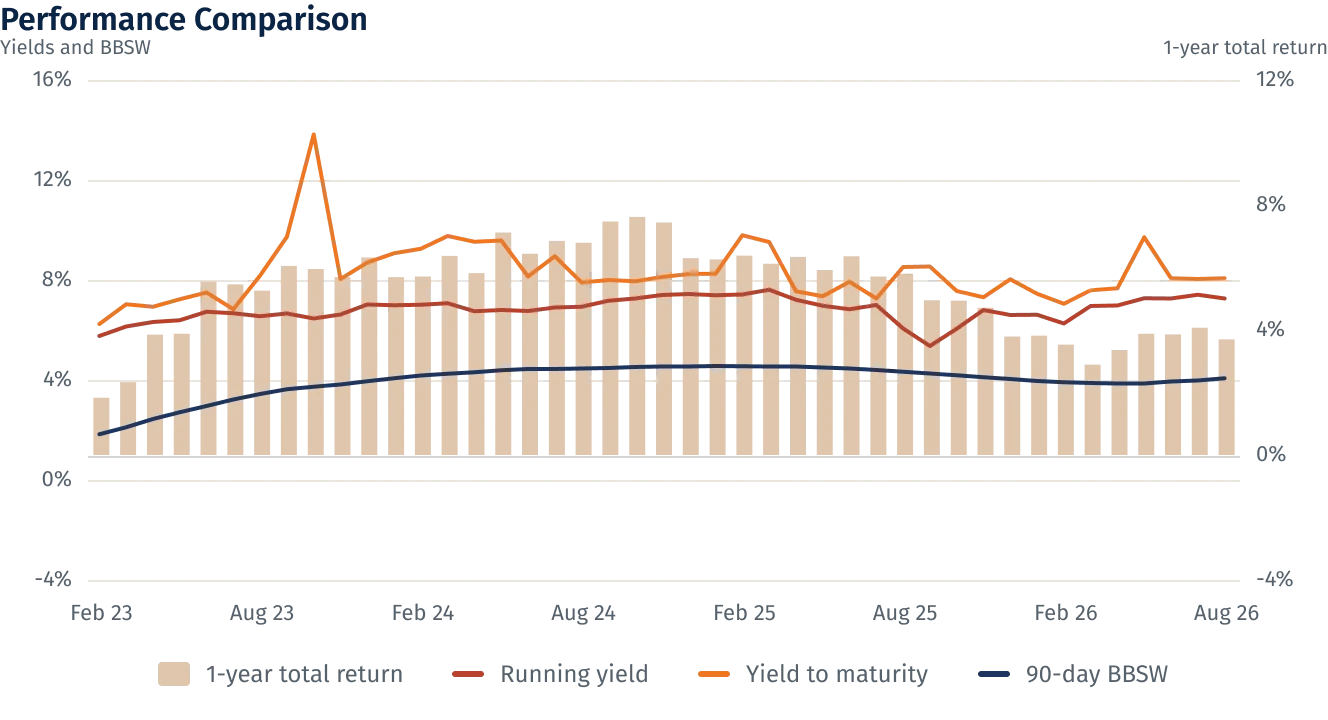
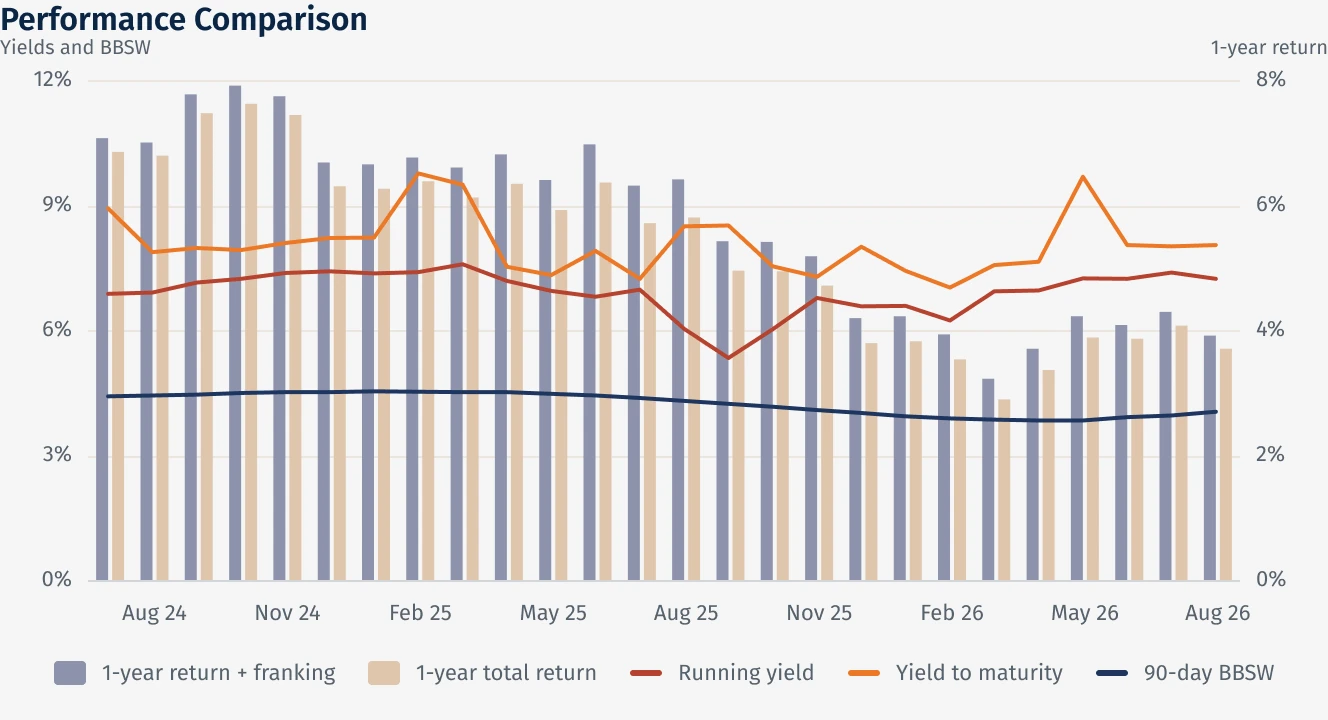
Add files via upload

diff --git a/scripts/figma-chart-build.js b/scripts/figma-chart-build.js
@@ -1,14 +1,16 @@
-// Figma use_figma script: builds a "Performance chart v2" frame from data. Replace D (43 months: bars = workbook
-// column AC as %, RY/YTM/BBSW from Renny's series or the report), set P (fund, label, axes), run through the Figma
+// Figma use_figma script: builds a "Performance chart v2" frame from data. Replace D (months: bars = workbook
+// column AC as %, optional bars2 = column BH (1-year return incl. franking, PIF only), RY/YTM/BBSW from Renny's
+// series or the report), set P (fund, label, axes, tickEvery), run through the Figma
 // MCP on page "04 · V1 Layouts", then export at 2x PNG with the _note layer hidden, trim below the legend (360px @1x),
 // WebP q90 -> public/charts/<fund>-<yyyy-mm>.webp. See docs/MONTHLY.md stage 1.
 const D = __DATA__;
-const P = __PARAMS__; // {fund:'PIF', label:'Aug 2026', Lmax:16, Lmin:-4, Rmax:12, Rmin:-4, leftTicks:[16,12,8,4,0,-4], rightTicks:[12,8,4,0,-4], belowId:'346:9503'}
+const P = __PARAMS__; // {fund:'PIF', label:'Aug 2026', Lmax:12, Lmin:0, Rmax:8, Rmin:0, leftTicks:[12,9,6,3,0], rightTicks:[8,6,4,2,0], tickEvery:3, belowId:'346:9503'}
+// AFI (43 months, one bar series): Lmax:8, Lmin:0, Rmax:8, Rmin:-4, leftTicks:[8,6,4,2,0], rightTicks:[8,4,0,-4], tickEvery:6
 await figma.setCurrentPageAsync(await figma.getNodeByIdAsync('74:3'));
 const SB={family:'Fira Sans',style:'SemiBold'}, RG={family:'Fira Sans',style:'Regular'};
 await figma.loadFontAsync(SB); await figma.loadFontAsync(RG);
 const hex=h=>({r:parseInt(h.slice(1,3),16)/255,g:parseInt(h.slice(3,5),16)/255,b:parseInt(h.slice(5,7),16)/255});
-const C={navyMid:'#0B2545',body:'#57626D',line:'#EBE5DE',bar:'#DFC6AD',ry:'#B6432F',ytm:'#EC7826',bbsw:'#1E355E',axis:'#D2D5D9'};
+const C={navyMid:'#0B2545',body:'#57626D',line:'#EBE5DE',bar:'#DFC6AD',bar2:'#8D93AC',ry:'#B6432F',ytm:'#EC7826',bbsw:'#1E355E',axis:'#D2D5D9'};
 const solid=h=>[{type:'SOLID',color:hex(h)}];
 const W=664,H=440;
 const anchor=await figma.getNodeByIdAsync(P.belowId);
@@ -21,18 +23,24 @@ const gridG=figma.createFrame(); gridG.name='Grid'; gridG.fills=[]; gridG.resize
 for (const v of P.leftTicks){ const l=figma.createRectangle(); l.resize(plotW,1); l.x=L; l.y=Math.round(yL(v)); l.fills=solid(C.line); gridG.appendChild(l); txt(`${v}%`,RG,11,C.body,0,yL(v)-7,L-8,'RIGHT'); }
 const z=figma.createRectangle(); z.resize(plotW,1); z.x=L; z.y=Math.round(yR(0)); z.fills=solid(C.axis); z.name='zero (right axis)'; gridG.appendChild(z);
 for (const v of P.rightTicks) txt(`${v}%`,RG,11,C.body,W-R+8,yR(v)-7,R-8,'LEFT');
-const n=D.months.length, slot=plotW/n, bw=Math.max(6,Math.floor(slot*0.6));
-const barsG=figma.createFrame(); barsG.name='Bars · 1-year total return'; barsG.fills=[]; barsG.resize(W,H); barsG.x=0; barsG.y=0; barsG.clipsContent=false; root.appendChild(barsG);
-D.bars.forEach((v,i)=>{const r=figma.createRectangle(); const y0=yR(0),y1=yR(v); r.resize(bw,Math.max(1,Math.abs(y1-y0))); r.x=L+i*slot+(slot-bw)/2; r.y=Math.min(y0,y1); r.fills=solid(C.bar); r.name=`${D.months[i]} ${v}%`; barsG.appendChild(r);});
+const n=D.months.length, slot=plotW/n, grouped=Array.isArray(D.bars2), gap=2;
+const bw=grouped?Math.max(4,Math.floor((slot*0.72-gap)/2)):Math.max(6,Math.floor(slot*0.6));
+const drawBars=(name,vals,color,offset)=>{const g=figma.createFrame(); g.name=name; g.fills=[]; g.resize(W,H); g.x=0; g.y=0; g.clipsContent=false; root.appendChild(g);
+ vals.forEach((v,i)=>{const r=figma.createRectangle(); const y0=yR(0),y1=yR(v); r.resize(bw,Math.max(1,Math.abs(y1-y0))); r.x=L+i*slot+offset; r.y=Math.min(y0,y1); r.fills=solid(color); r.name=`${D.months[i]} ${v}%`; g.appendChild(r);});};
+if(grouped){ const groupW=bw*2+gap, x0=(slot-groupW)/2; drawBars('Bars · 1-year return incl. franking',D.bars2,C.bar2,x0); drawBars('Bars · 1-year total return',D.bars,C.bar,x0+bw+gap); }
+else drawBars('Bars · 1-year total return',D.bars,C.bar,(slot-bw)/2);
 const cx=i=>L+i*slot+slot/2;
 const line=(name,vals,color)=>{const v=figma.createVector(); v.name=name; root.appendChild(v); let d='',minX=Infinity,minY=Infinity; vals.forEach((val,i)=>{ if(val===null) return; const X=cx(i),Y=yL(val); minX=Math.min(minX,X); minY=Math.min(minY,Y); d+=(d?' L ':'M ')+X.toFixed(2)+' '+Y.toFixed(2);}); v.vectorPaths=[{windingRule:'NONE',data:d}]; v.strokes=solid(color); v.strokeWeight=2; v.strokeCap='ROUND'; v.strokeJoin='ROUND'; v.fills=[]; v.x=minX-1; v.y=minY-1; return v.id;};
 line('Running yield',D.RY,C.ry); line('Yield to maturity',D.YTM,C.ytm); line('90-day BBSW',D.BBSW,C.bbsw);
-D.months.forEach((m,i)=>{ if(i%6===0){ const [mon,yr]=m.split(' '); txt(`${mon} ${yr.slice(2)}`,RG,11,C.body,cx(i)-24,bottom+10,48,'CENTER'); } });
-txt('Yields and BBSW',RG,10,C.body,0,top-22); txt('1-year total return',RG,10,C.body,W-90,top-22,90,'RIGHT');
-const leg=figma.createAutoLayout('HORIZONTAL',{name:'Legend',itemSpacing:24}); leg.fills=[]; root.appendChild(leg);
-const item=(label,color,isBar)=>{const it=figma.createAutoLayout('HORIZONTAL',{itemSpacing:8}); it.fills=[]; it.counterAxisAlignItems='CENTER'; const sw=figma.createRectangle(); sw.resize(16,isBar?12:3); sw.fills=solid(color); sw.cornerRadius=isBar?2:1.5; it.appendChild(sw); const t=figma.createText(); t.fontName=RG; t.characters=label; t.fontSize=12; t.fills=solid(C.body); it.appendChild(t); leg.appendChild(it);};
+const every=P.tickEvery||6;
+const phase=(D.months.length-1)%every; // labels anchored so the last month is always labelled
+D.months.forEach((m,i)=>{ if(i%every===phase){ const [mon,yr]=m.split(' '); txt(`${mon} ${yr.slice(2)}`,RG,11,C.body,cx(i)-24,bottom+10,48,'CENTER'); } });
+txt('Yields and BBSW',RG,10,C.body,0,top-22); txt(grouped?'1-year return':'1-year total return',RG,10,C.body,W-90,top-22,90,'RIGHT');
+const leg=figma.createAutoLayout('HORIZONTAL',{name:'Legend',itemSpacing:grouped?16:24}); const legSize=grouped?11:12; leg.fills=[]; root.appendChild(leg);
+const item=(label,color,isBar)=>{const it=figma.createAutoLayout('HORIZONTAL',{itemSpacing:8}); it.fills=[]; it.counterAxisAlignItems='CENTER'; const sw=figma.createRectangle(); sw.resize(16,isBar?12:3); sw.fills=solid(color); sw.cornerRadius=isBar?2:1.5; it.appendChild(sw); const t=figma.createText(); t.fontName=RG; t.characters=label; t.fontSize=legSize; t.fills=solid(C.body); it.appendChild(t); leg.appendChild(it);};
+if(grouped) item('1-year return + franking',C.bar2,true);
 item('1-year total return',C.bar,true); item('Running yield',C.ry); item('Yield to maturity',C.ytm); item('90-day BBSW',C.bbsw);
 leg.x=Math.round((W-leg.width)/2); leg.y=bottom+40;
 const note=txt(`_note: ${D._source||''}`,RG,9,C.body,0,bottom+72,W); note.name='_note (hide before export)'; note.visible=false;
 root.exportSettings=[{format:'PNG',constraint:{type:'SCALE',value:2}}];
-return {rootId:root.id,x:root.x,y:root.y,screenshot:await root.screenshot({scale:1})};
+return {rootId:root.id,x:root.x,y:root.y,legendWidth:leg.width,screenshot:await root.screenshot({scale:1})};

diff --git a/scripts/monthly.py b/scripts/monthly.py
@@ -11,7 +11,7 @@ person types and a second person checks.
 
 Outputs (for month YYYY-MM, taken from the workbooks' last dated row):
     docs/monthly/YYYY-MM/audit.md              the sign-off sheet (stage 2)
-    docs/monthly/YYYY-MM/chart-<fund>.json     43-month series for scripts/figma-chart-build.js (stage 1)
+    docs/monthly/YYYY-MM/chart-<fund>.json     chart series (AFI 43 months; PIF 26 months + franked bars) for scripts/figma-chart-build.js (stage 1)
 Workbook layout and column map: docs/MONTHLY.md.
 """
 import sys, json, re, argparse, datetime as dt, pathlib
@@ -38,7 +38,10 @@ def read(path, asat=None):
     r = rows[-1]; date = ws.cell(r, 1).value.date()
     cells = {k: [(f"{c}{r}", ws.cell(r, ci(c)).value) for c in cols] for k, cols in COLS.items()}
     cells = {k: v for k, v in cells.items() if any(x[1] is not None for x in v)}
-    series = [(ws.cell(x, 1).value.date(), ws.cell(x, ci("AC")).value, f"AC{x}") for x in rows[-43:]]
+    # Chart window: AFI 43 months of column AC; PIF 26 months (Jul 2024 onward, mirroring the published report chart)
+    # of AC plus BH (1-year return incl. franking credits) as a second bar series.
+    pif = ws.title == "PIF"; win = rows[-26:] if pif else rows[-43:]
+    series = [(ws.cell(x, 1).value.date(), ws.cell(x, ci("AC")).value, f"AC{x}", ws.cell(x, ci("BH")).value if pif else None) for x in win]
     return ws.title, date, cells, series, pathlib.Path(path).name
 
 ap = argparse.ArgumentParser(); ap.add_argument("files", nargs=2); ap.add_argument("--apply", action="store_true"); ap.add_argument("--asat", type=dt.date.fromisoformat, help="use this month-end row instead of the last one (the site follows the latest PUBLISHED report, which can lag the workbook by a month)")
@@ -72,12 +75,15 @@ for sheet, d, cells, series, fname in funds:
         audit.append(f"| {m} | | | ☐ |")
     audit += ["", "### Allocation donut (report PDF → JSON, typed by hand; must sum to 100.0%)", "", "| Sector | Value | PDF page | Checked |", "|---|---|---|---|", "| Floating rate notes | | | ☐ |", "| Fixed rate | | | ☐ |", "| Cash | | | ☐ |", "",
               "### Chart (workbook + report → Figma → export)", "",
-              f"- Bars: 43 months to {d}, workbook column AC rows {series[0][2]}–{series[-1][2]}, written to `docs/monthly/{ym}/chart-{slug}.json` ☐",
+              f"- Bars: {len(series)} months to {d}, workbook column AC rows {series[0][2]}–{series[-1][2]}" + (" plus column BH (1-year return incl. franking)" if slug == "pif" else "") + f", written to `docs/monthly/{ym}/chart-{slug}.json` ☐",
               "- Lines (running yield, yield to maturity, 90-day BBSW): from Renny's series when supplied, otherwise [Unverified] traced from the report chart — state which: ________ ☐",
               f"- Figma `Performance chart v2 · {slug.upper()}` regenerated, `_note` hidden, exported 2×, trimmed to 664×360, saved as `public/charts/{slug}-{ym}.webp`, `chartImage` updated ☐", "",
               "### Documents", "", f"- `{slug}-monthly-{ym}.pdf` in `public/documents/`, a `documents.json` row with size, and `keyDocuments` \"Latest monthly report\" pointing at it ☐", ""]
-    json.dump({"months": [s[0].strftime("%b %Y") for s in series], "bars": [round(s[1]*100, 2) for s in series], "RY": [None]*43, "YTM": [None]*43, "BBSW": [None]*43,
-               "_source": f"{fname} column AC rows {series[0][2]}-{series[-1][2]}; RY/YTM/BBSW to be filled from Renny's series"}, open(out / f"chart-{slug}.json", "w"), indent=0)
+    n = len(series); chart = {"months": [s[0].strftime("%b %Y") for s in series], "bars": [round(s[1]*100, 2) for s in series]}
+    if slug == "pif": chart["bars2"] = [round(s[3]*100, 2) for s in series]
+    chart.update({"RY": [None]*n, "YTM": [None]*n, "BBSW": [None]*n,
+                  "_source": f"{fname} column AC rows {series[0][2]}-{series[-1][2]}" + (" (bars) and column BH same rows (bars2, incl. franking)" if slug == "pif" else "") + "; RY/YTM/BBSW to be filled from Renny's series"})
+    json.dump(chart, open(out / f"chart-{slug}.json", "w"), indent=0)
     if a.apply:
         p = ROOT / "content" / "funds" / f"{slug}.json"; j = json.load(open(p)); perf = j["performance"]
         perf["performanceAsAt"] = d.isoformat(); perf["tableTitle"] = f"Performance to {longdate(d)} (annualised)"

diff --git a/docs/MONTHLY.md b/docs/MONTHLY.md
@@ -10,7 +10,7 @@ Everything that changes on a fund page, and where the figure comes from:
 
 | # | On the page | File | Source | How it gets there |
 |---|---|---|---|---|
-| 1 | Performance chart bars (43 months, 1-year total return) | Figma → `public/charts/<fund>-<yyyy-mm>.webp` | Workbook column AC, last 43 rows | `scripts/monthly.py` writes `chart-<fund>.json`; `scripts/figma-chart-build.js` draws it (stage 1) |
+| 1 | Performance chart bars — AFI: 43 months, 1-year total return; PIF: 26 months (Jul 2024 onward, matching the report chart), 1-year total return **and** 1-year return incl. franking | Figma → `public/charts/<fund>-<yyyy-mm>.webp` | Workbook column AC (and BH for PIF franked), last rows | `scripts/monthly.py` writes `chart-<fund>.json`; `scripts/figma-chart-build.js` draws it (stage 1) |
 | 2 | Performance chart lines (running yield, yield to maturity, 90-day BBSW) | same | Renny's series behind his chart (not in the workbooks) | typed into `chart-<fund>.json` (stage 1) |
 | 3 | Performance table: 7 periods × Total return, Cash distribution, Growth (AFI) or Total return, Incl. franking credits, Cash distribution (PIF, mirroring the report from Aug 2026) | `content/funds/<fund>.json` → `performance.table` | Workbook last dated row, columns AA–AH, AV–BB, AL–AR | `scripts/monthly.py --apply` (stage 2) |
 | 4 | Note sentence: as-at date, 1-year and since-inception distribution | `performance.note`, `tableTitle`, `performanceAsAt` | Workbook AX, BB and the row date | `--apply` |
@@ -26,7 +26,7 @@ For PIF the workbook also carries franking-inclusive returns (BE–BL, BO–BV).
 
 1. Run `python3 scripts/monthly.py <GACS file> <PIF file>` (dry run). The workbooks usually run a month ahead of the published reports; the site follows the *report*, so add `--asat <yyyy-mm-dd>` for the report's month-end (e.g. `--asat 2026-08-31` when the August reports arrive with September workbooks). It creates `docs/monthly/<yyyy-mm>/` with `audit.md` and `chart-afi.json`, `chart-pif.json` (bars filled from column AC, the three line series empty).
 2. Fill `RY`, `YTM`, `BBSW` in each chart JSON from Renny's series, 43 values each, oldest first. If the series has not arrived, trace from his report chart and mark the audit sheet [Unverified].
-3. In Figma (file `WNKIatY2HASsdD2Kyh1nCp`, page **04 · V1 Layouts**), rebuild each chart with `scripts/figma-chart-build.js` through the Figma MCP: paste the JSON in as `D`, set the axis constants for the fund (PIF: left 16 to -4, right 12 to -4; AFI: left 8 to 0, right 8 to -4), run. It draws a new `Performance chart v2 · <FUND> (<Mon YYYY>)` frame beside the previous one; delete the old frame once the new one is checked.
+3. In Figma (file `WNKIatY2HASsdD2Kyh1nCp`, page **04 · V1 Layouts**), rebuild each chart with `scripts/figma-chart-build.js` through the Figma MCP: paste the JSON in as `D`, set the axis constants for the fund (PIF: left 12 to 0, right 8 to 0, ticks 12/9/6/3/0 and 8/6/4/2/0, `tickEvery: 3`; AFI: left 8 to 0, right 8 to -4, `tickEvery: 6`), run. PIF carries a second bar series `bars2` (column BH, 1-year return incl. franking credits) and a 26-month window from Jul 2024, mirroring the published report chart since Aug 2026; `monthly.py` writes both. It draws a new `Performance chart v2 · <FUND> (<Mon YYYY>)` frame beside the previous one; delete the old frame once the new one is checked.
 4. Hide the `_note` layer, export at 2× PNG, trim everything below the legend (720px tall at 2×), convert to WebP at quality 90, save as `public/charts/<fund>-<yyyy-mm>.webp`.
 
 ## Stage 2 — Figures

diff --git a/CLAUDE.md b/CLAUDE.md
@@ -114,7 +114,7 @@ All in `content/`, loaded as Astro content collections by `src/content.config.ts
 - `legal/terms.md`, `legal/privacy.md`, `legal/cookies.md`, `legal/disclosure.md` (disclosure copy pending).
 - `pages/home.json`, `pages/contact.json`, `pages/404.json`.
 
-Monthly update: the two performance charts are Figma exports (`Performance chart v2` nodes `349:9521` AFI, `346:9503` PIF — rebuilt 23 Sep 2026 at Renny's fidelity: dual axes, all 43 monthly bars; export at 2×, trim below the legend to 664×360 @1x, WebP), never generated in code; the portfolio allocation donut is inline SVG from the three allocation rows. The edit is: change fund JSON, add PDF and a `documents.json` line, drop in the chart export, commit. Document this in `docs/MONTHLY.md` (task L3).
+Monthly update: the two performance charts are Figma exports (`Performance chart v2` nodes `379:9521` AFI, `396:9521` PIF, current Aug 2026 — rebuilt 23 Sep 2026 at Renny's fidelity: dual axes; AFI all 43 monthly bars; PIF 26 months from Jul 2024 with a second bar series (1-year return incl. franking, workbook column BH) on 12/8 axes, matching the published report chart from 7 Oct 2026; export at 2×, trim below the legend to 664×360 @1x, WebP), never generated in code; the portfolio allocation donut is inline SVG from the three allocation rows. The edit is: change fund JSON, add PDF and a `documents.json` line, drop in the chart export, commit. Document this in `docs/MONTHLY.md` (task L3).
 
 ## 5. Rules
 

diff --git a/docs/monthly/2026-08/audit.md b/docs/monthly/2026-08/audit.md
@@ -127,3 +127,7 @@ Note: workbooks run to 30 September; the site follows the latest published repor
 - Build green (`npm run build`) ☐
 - Both fund pages checked against the report PDFs side by side ☐
 - Delta packaged as `Monthly Update - <Month YYYY>` ☐
+
+### PIF chart correction — 7 Oct 2026
+
+Chart rebuilt to match the published August report chart: window cut to Jul 2024–Aug 2026 (26 months); second bar series added, 1-year return incl. franking credits, workbook `PIF_Perf_2026_09_30.xlsx` column BH rows BH242–BH267 (Aug 2026 = 3.91%, agrees with the report table); axes changed to yields 0–12%, returns 0–8% as in the report. Bars column AC unchanged. Lines unchanged (still [Unverified] traced to Jun 2026). Figma frame `396:9521`; `public/charts/pif-2026-08.webp` replaced. ☐
